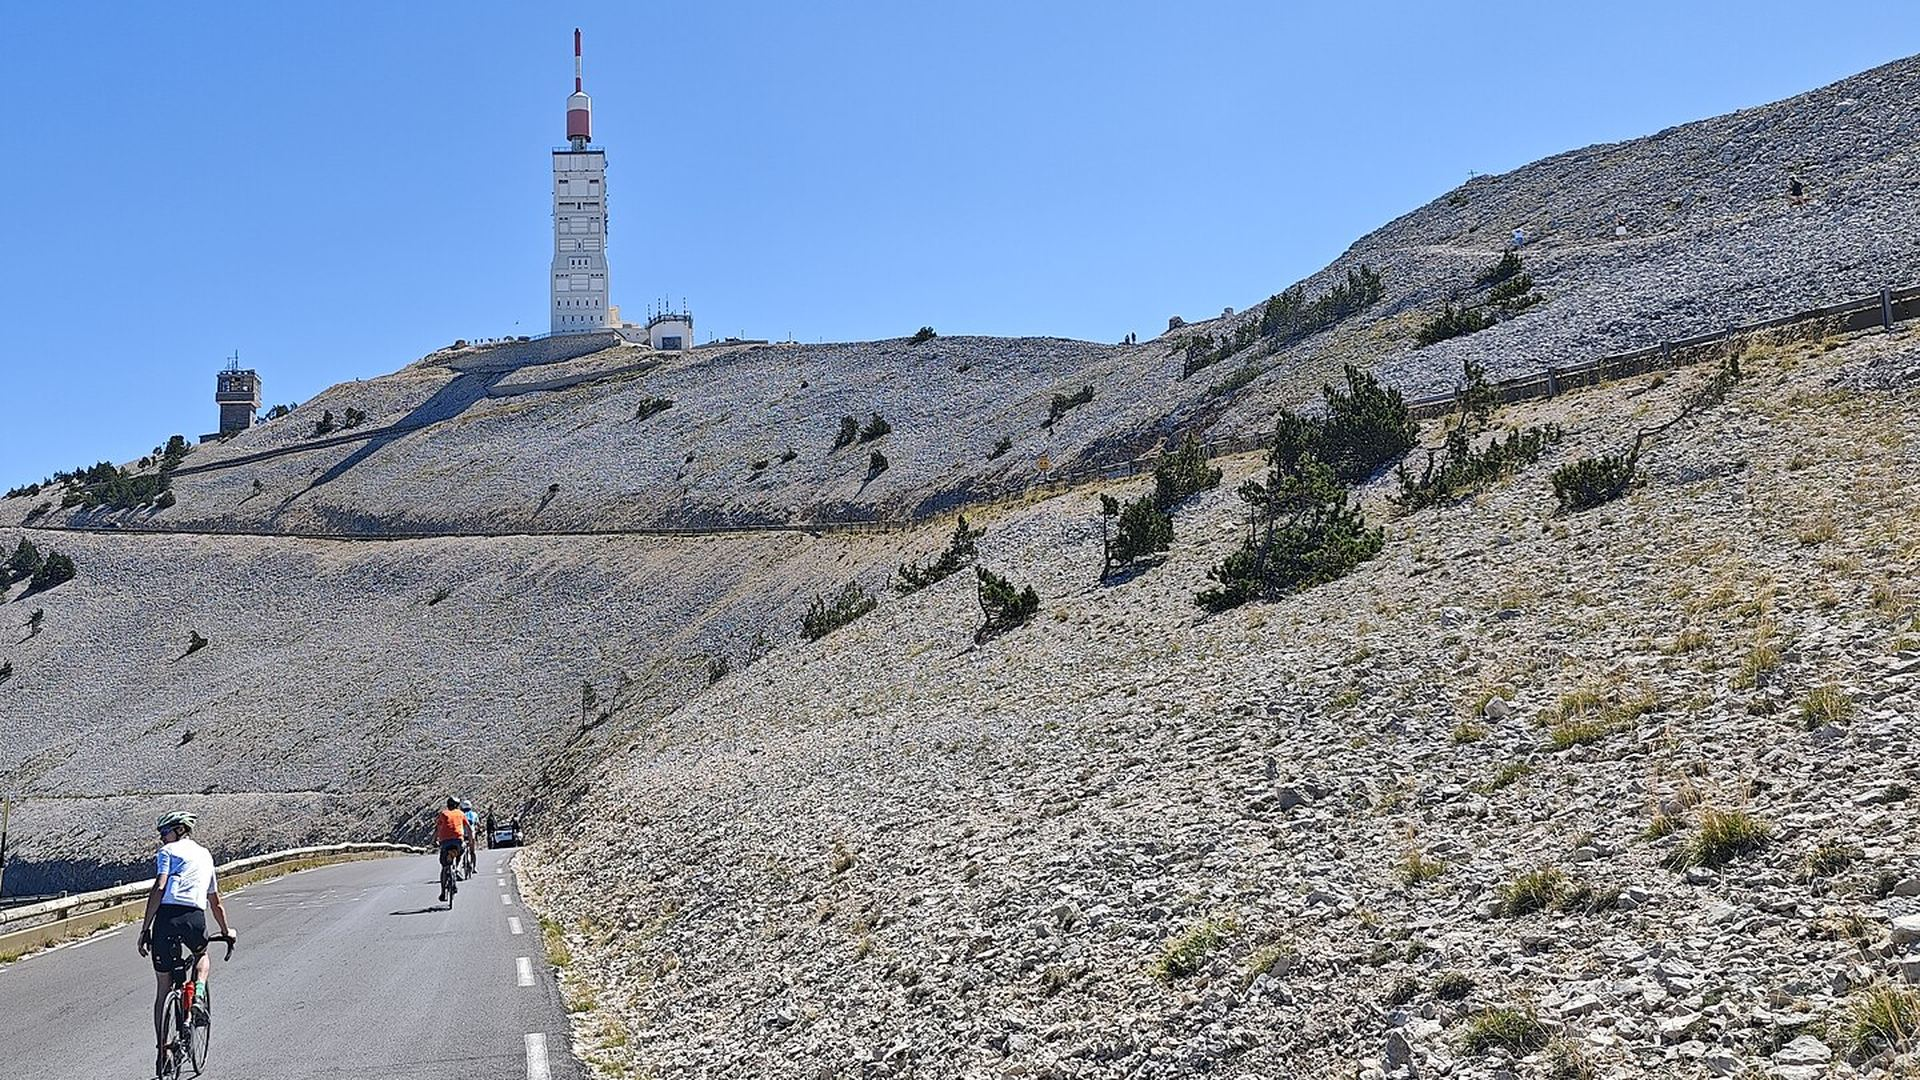
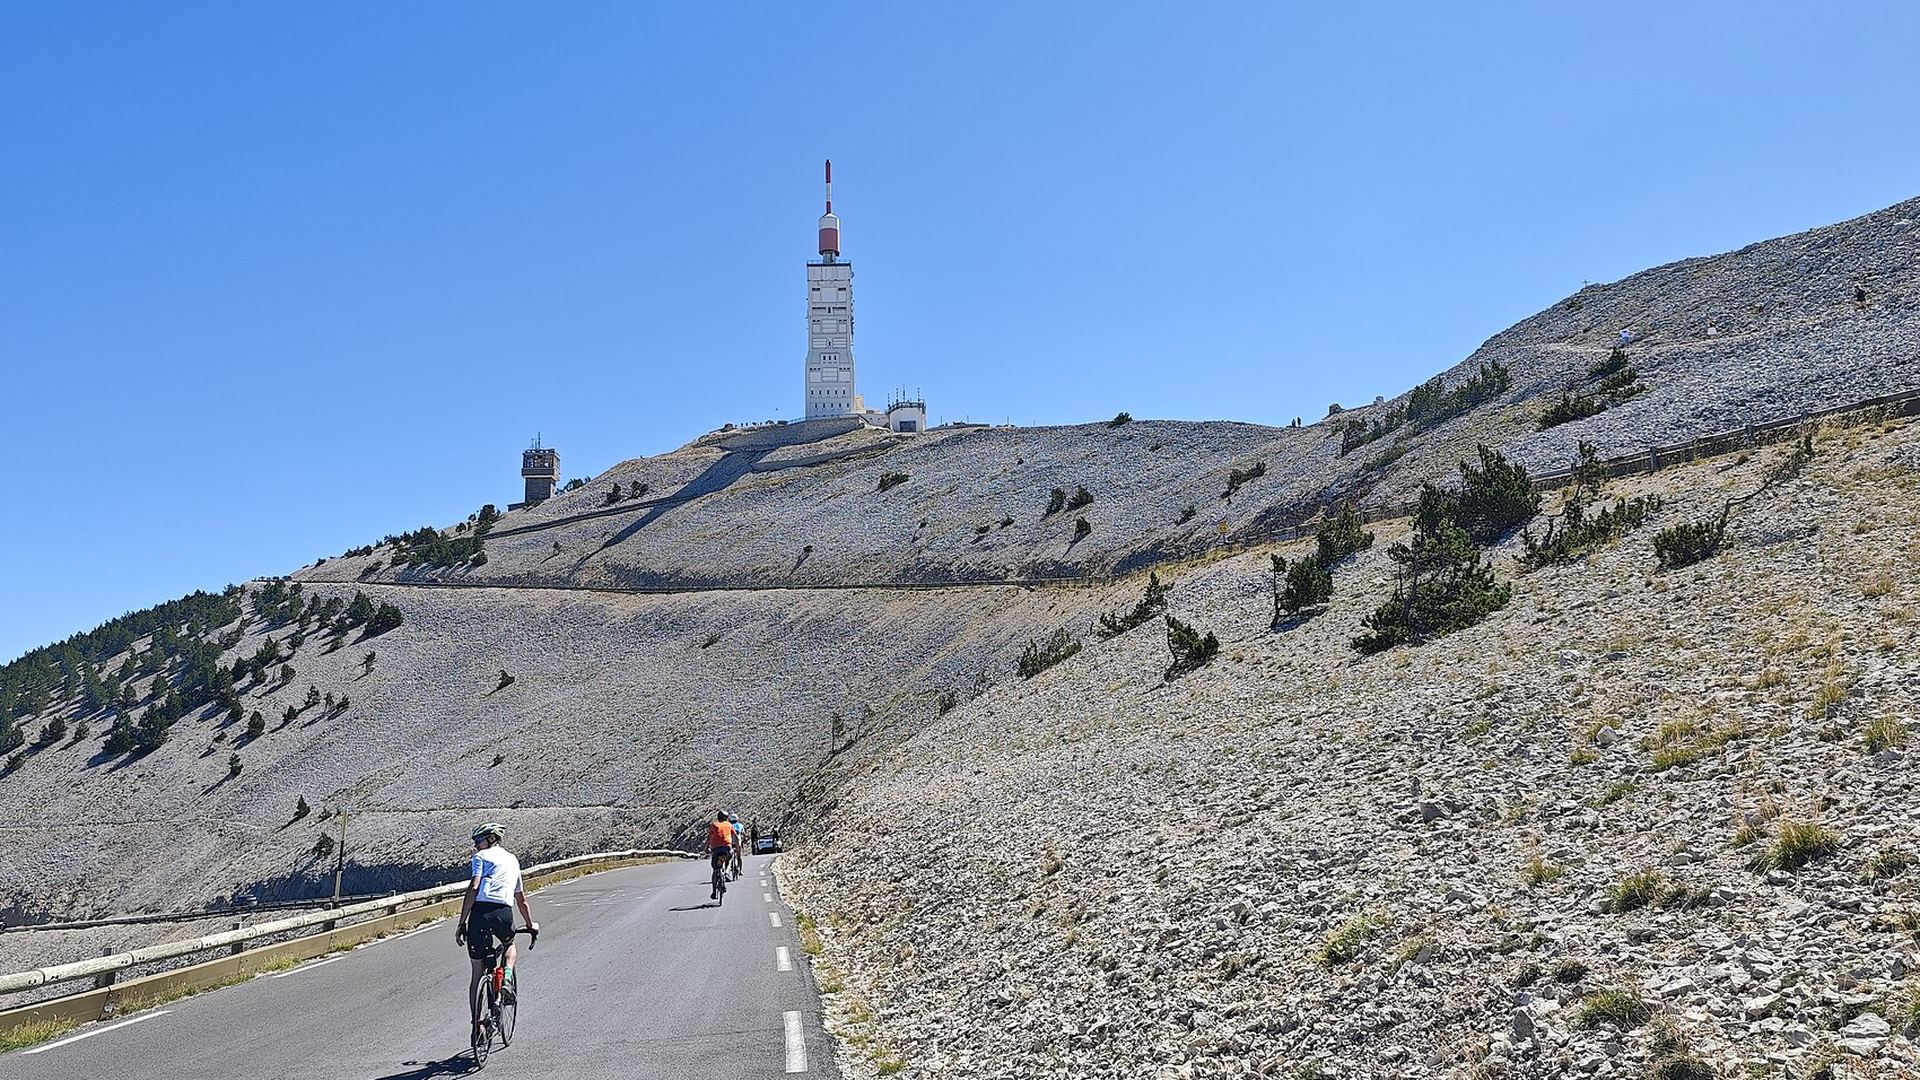
Hero: keep the whole Ventoux tower in view
Widen and lower the crop so the tower sits between headline and form, and
let credits.json set a per-photo background-position (center top here) so
the short hero band no longer cuts the tower off.

Claude-Session: https://claude.ai/code/session_01HUmvDKp7bGosKEnYZn9JK4

diff --git a/webapp/static/style.css b/webapp/static/style.css
@@ -59,7 +59,7 @@ p { margin: 0; }
 .hero-bike { width: 100%; max-width: 420px; margin-top: 4px; }
 /* one of the hero photos, picked per visit; the overlay keeps headline and form readable */
 .hero.has-bg { background-image: linear-gradient(90deg, rgba(16,17,20,.90) 0%, rgba(16,17,20,.70) 40%, rgba(16,17,20,.38) 100%),
-  linear-gradient(0deg, rgba(16,17,20,.75) 0%, rgba(16,17,20,0) 30%), var(--hero-bg); background-size: cover; background-position: center; }
+  linear-gradient(0deg, rgba(16,17,20,.75) 0%, rgba(16,17,20,0) 30%), var(--hero-bg); background-size: cover; background-position: var(--hero-pos, center); }
 .hero-credit { position: absolute; right: 12px; bottom: 8px; margin: 0; font-size: 11px; color: rgba(255,255,255,.55); font-family: var(--mono); }
 .hero-credit a { color: inherit; }
 .hero .check-form { grid-template-columns: repeat(3, minmax(0, 1fr)); gap: 12px 14px; }

diff --git a/webapp/templates/home.html b/webapp/templates/home.html
@@ -1,7 +1,7 @@
 {% extends "base.html" %}
 {% from "_macros.html" import check_form, listing_card, brand_label with context %}
 {% block body %}
-<section class="hero{% if hero_bg %} has-bg{% endif %}"{% if hero_bg %} style="--hero-bg: url('{{ url_for('static', filename='hero/' ~ hero_bg) }}')"{% endif %}>
+<section class="hero{% if hero_bg %} has-bg{% endif %}"{% if hero_bg %} style="--hero-bg: url('{{ url_for('static', filename='hero/' ~ hero_bg) }}'){% if hero_credit and hero_credit.position %}; --hero-pos: {{ hero_credit.position }}{% endif %}"{% endif %}>
   <div class="wrap">
     <div class="hero-intro">
       <h1>{{ _('Is that bike <span>really</span> what the seller says?')|safe }}</h1>

diff --git a/docs/hero-art/README.md b/docs/hero-art/README.md
@@ -4,7 +4,9 @@ The home page hero backgrounds (`webapp/static/hero/*.jpg`) are ten openly licen
 Wikimedia Commons, cropped to 1920x1080 (three of them also shifted or mirrored so the riders sit
 on the left, behind the headline). `webapp/app.py` picks one at random per visit from every `.jpg`
 in that folder and shows a credit line ("Photo: author · licence", linking to the source) at the
-bottom right of the hero. Every photo needs an entry in `webapp/static/hero/credits.json`.
+bottom right of the hero. Every photo needs an entry in `webapp/static/hero/credits.json`; an
+optional `position` there sets its CSS `background-position` (the Ventoux photo uses `center top`
+so the tower is not cut off).
 
 | Photo | Author | Licence | Change |
 |---|---|---|---|
